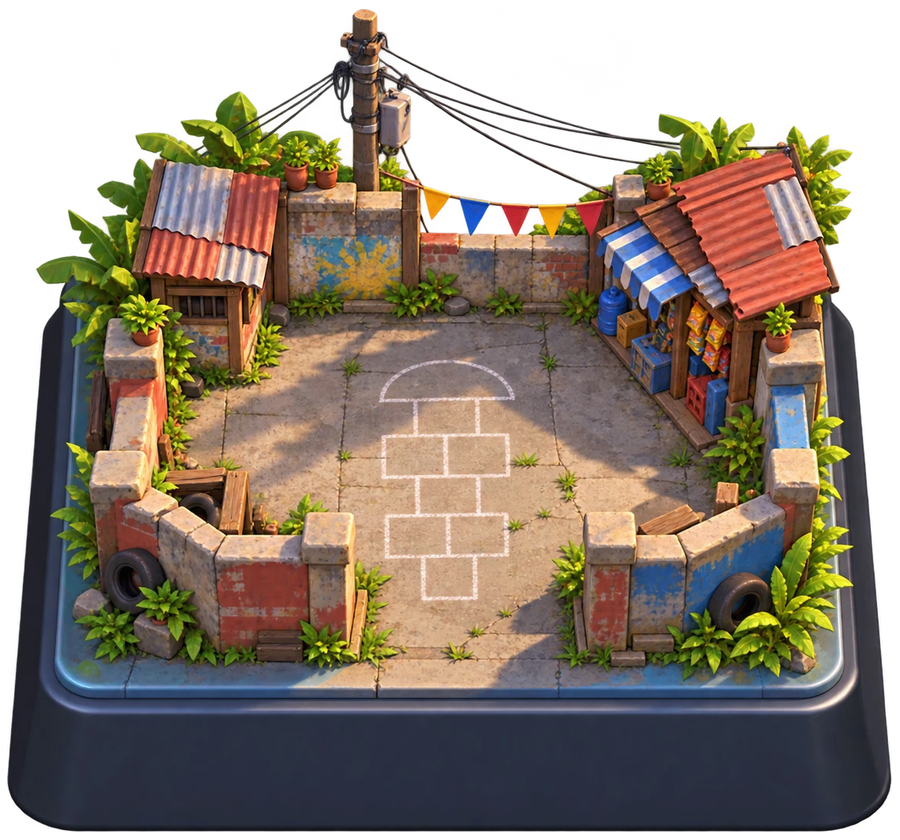
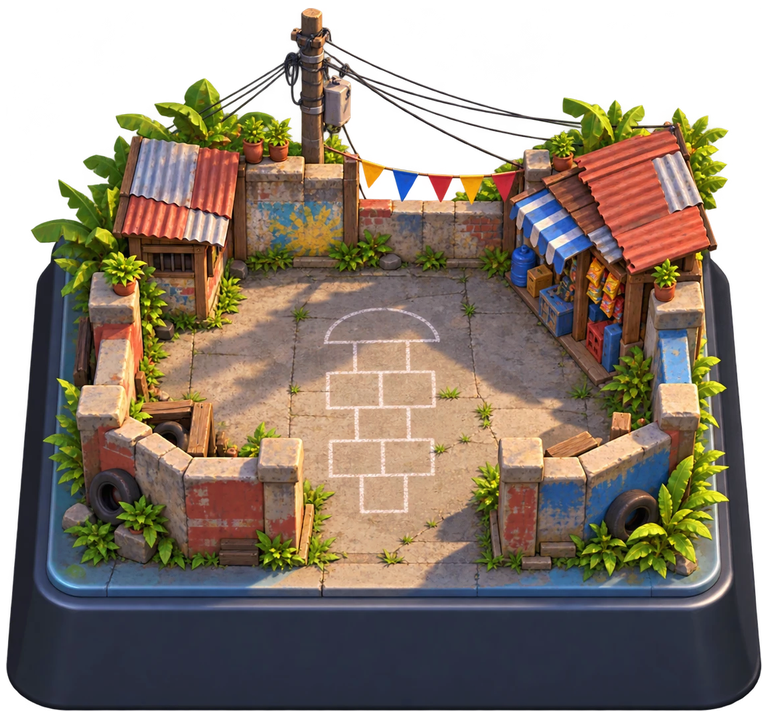
fix(menu): dioramas at 0.64 scale (768 x 717 PNGs); the ones behind the chosen one stand a little higher
Claude-Session: https://claude.ai/code/session_01Vpde5vHZTWw1h4wGUTJzwu

diff --git a/docs/GDD.md b/docs/GDD.md
@@ -199,7 +199,7 @@ Copied! from the reference video (owner): one street. **The playing area is 9:16
 - Ranges and speeds stay as specified; balance is re-checked in M6 with real play on phones.
 
 ## Main screen (owner)
-- **Main screen layout (as built):** the background is **backlit** (owner): a radial gradient of brightness and slight saturation in the chosen mode's colour (a soft, wide light, strength 0.4, reaching 1.5 card heights, like the Clash Royale home screen), brightest right behind the chosen card, under a light night vignette that is the colour's own very dark shade (never a navy mixed into it); the background is the owner's blue, purple or green diamond picture, whichever matches the chosen card (Online green, Local blue, Practice purple; they cross-fade when you swipe), shown as it is, not tinted; **Top row**, a little down from the top: the **KALYEAH! logo** (the owner's cardboard sign, `assets/ui/kalyeah_logo.png`) **centred, 92 px tall and dropped 62 px below the top margin**; there is no profile chip (owner): the name and face are edited in Settings. A **tab bar** along the bottom in the style of a mobile card game's (drawn in code as flat dark slate-blue slots split by thin dark lines under a dark top edge, the open tab's slot lit steel blue and its picture centred on the top edge of the bar, with the owner's pictures from `assets/ui/nav/`; the cardboard plate is gone), **edge to edge and flush with the bottom of the screen** (no margin around it; it reaches under the phone's home bar and the page stops above it): **Street**, **Cards** (the Book: kids and weapons), **Play** (this page, in the middle), **History** and **Settings**. The strip of five tabs is **centred with a 65 px margin on each side** (the margins are coloured like an idle tab; the visible bar is 108 px tall and the idle pictures are small, so there is room each side of every picture, and the lit slot's lighter background fills the tab's whole width; the bar has depth (all drawn in code): a soft shadow cast up over the screen, shaded slot edges, bevelled dividers, a dark rim with a light line and a soft shade under it, a darker bottom, a glossy outlined lit slot and a soft shadow under every picture) and the **open tab is the wide one** (about 203 px, room for its two arrows) while the other four share the rest equally (the strip always fills the same width); the pictures, arrows and the open tab's width scale with the room the margins leave (92 % of the 640 px strip they were drawn for: the midpoint between the first 40 px margin and a 90 px one), and the open tab's picture grows and sits centred on the top edge of the bar and its name fades in under it, so nothing else moves or restructures; two small arrows float a little out from the picture to step to the neighbouring tab (Street has only a right arrow, Settings only a left one); changing tab is one smooth animation (instant with Reduce motion). **Street** lists every game as a street (A. Base Street = Agawan Base, T. Preso Street = Tumbang Preso, Patintero Street) with how it plays, numbers read from the rules; only Agawan Base is playable, the others say Coming soon. **Cards** opens the Book and **History** the last battles (they are no longer buttons in Settings; How to play still is). The chosen card stays **centred on the screen**. **Cards (owner: bare dioramas):** the mode cards show the owner's three diorama pictures (`assets/ui/dioramas/<mode id>.png`, transparent, lossless, 900 x 840) **directly, with no card paper**: the card is only a shell that sizes, places and dims the picture (0.75 of the width the stage allows, the shape of the picture, `TitleScreen.DIORAMA_RATIO`), with a soft ground shadow under the chosen one and no power line; Online is the blue hologram, Local the hopscotch street, Practice the street with the cardboard dummy. The description that follows (the worn old teks card with its corners, tint and power line, `CardFace` without `bare`) is kept for another part of the game. A carousel of large **1.75:2.5 mode cards** (owner) (Online, Local in the middle and the default, Practice; each card is the owner's picture with no text on it): the chosen card is in the middle at full size and **two layers only**: the other card or cards in one back layer, pushed a little to the left or right (earlier left, later right), smaller, dimmed nearly black, slightly see-through, all on the middle card's vertical centre; when the chosen card is Online or Practice, **the third card sits horizontally centred at the back, behind the chosen card, not seen** (`scripts/ui/menu_carousel.gd`); **each card is a thin, straight card with square corners (owner: no border radius, like a Filipino teks card) and its own power line ("POWER 9999" on Local, 7450 on Online, 1200 on Practice; flavour numbers) in white letters with a black outline turned -90 degrees at the bottom of its right edge, and a shade in the mode's colour at the bottom of the picture behind the mode's name, floating over the table (owner: no tilt): flat (no thickness and no coloured outline: owner) and **textured like an old pinoy teks card (owner): the print is worn away to light brown paper at the corners only (two layers of wear, like real cardstock: a thin light tan paper under the ink (lightness grade 64 of 100) and, nearest the edge, the darker brown paperboard core beneath it (grade 48) with a pale fringe of loose fibres on the very edge; a little, different on each card), the print is grainy, every corner has its own slight radius (12 to 16 px: different on each corner and each card, never sharp, never very round), the left and right sides are very slightly worn (different on every card), and a brown-yellow old tint (17 %) lies over the whole card to make it look old, all drawn by a shader (`card_picture`) with each card wearing differently**, with a compact soft shadow close under it, and **every card that is not chosen is dimmed with a darker, nearly black tint** (still in colour; no black and white); the **chosen card only** has a compact soft shadow (**no glow** behind or over the card);  every card that is not chosen has no glow and no shadow; no coloured shade over the picture: owner), and the middle card drifts slowly up and down while the screen idles (a six-second breath of 12 px, still with Reduce motion) with its shadow following** (`CardShape`, `CardFace`, `CardRim`); swipe/drag to scroll, tap a card to bring it forward; card pictures: `assets/ui/cards/<mode id>.webp` (1.75:2.5, the owner's three dioramas set on cream card stock: Online the blue hologram, Local the hopscotch street, Practice the street with the cardboard dummy; the card's shape, worn corners, old tint and power line are drawn over them as before); the earlier mode pictures are kept in `assets/ui/mode_pictures/` for another part of the game. **Round 9 (owner-approved UI plan):** the hero cards **grow with the screen** (1.75:2.5, 86 % of a size between 440 and 780 px tall, so the tipped card floats with space round it; owner) so a tall phone has no empty band; under the phrase two small **fact chips** from the rules data ("2 to 6 players", "Best of 3, 5 or 7"; Online "Join with a code"; Practice "Solo", "A sparring partner" (from `practice_fighters`)) which step aside when the stage is short; no last-match strip on Play (owner: removed; History is a button in Settings); pages **slide in from the side their tab is on** and the tab plate **glides**; the card's bob and the drifting lights **rest** while a page or a sheet covers Home. **Under the cards**, the chosen mode's name **hangs on the bottom edge of the chosen card (its centre on the edge)** and **one short action phrase** ("Play with your friends offline.") are grouped directly below the cards (the cards sit low in their stage so the name, its phrase and the buttons stay together (no page dots: owner), and the whole group is centred between the logo and the bottom bar: the spare room is split above the card and under the buttons), with negative space before the action buttons, which are **low on the screen** (in the bottom part, with some room under them) in one row: **Create** (gold) and **Join** (sky blue) for Local and Online, a **centred pair of equal buttons 117 px tall** (0.75 x 156, which was 1.5 x the old 104; lettering 35 px, 1.25 x the body size), the row **centred vertically between the phrase and the bottom bar**, **as wide as their words need** (at least 240 px) with a 12 px gap, from the owner's Clash Royale reference (colour, position), and the one **Play** button for Practice. The Street and Settings tabs (and the Book and History from Settings) open their page over the home page (Android Back closes the page first, and asks to quit on the home page). **Book:** two tabs, **Characters** (the six kids as large cards to look at; tap one for a sheet with its picture, a description of what the kid wears and a **palette** of swatches (hair, top, accent, bottom, footwear, extra; never skin tone); display only, it never changes who you are: the kid you play is picked in the room and again before every match) and **Weapons** (display only too: grouped By game or By type, a tap opens a sheet with the picture, text, **bars** for damage or healing, cooldown and range each as full as the number is next to every other weapon's, and *The game*: one plain sentence about the real street game behind it, kept as data in `data/rules/street_games.tres`; the same sentence sits under each section header in By game). **History:** the last 30 battles this phone played (result, score, mode, how long ago), with **Played, Won (a whole percent) and Streak** above the list and an All / Practice / Hotspot / Online filter, saved locally (`MatchHistory`, `user://history.cfg`), newest first. **Settings:** your profile (name and face: a sheet with the six kids and a name field, Save or Cancel; Edit profile in Settings opens it), Sound, Vibration (phones), Reduce motion, Left-handed and Control size, a **UI gallery** (every control in every state, for reviewing the look) and Quit. There is no map button: Agawan Base is the only map for now.
+- **Main screen layout (as built):** the background is **backlit** (owner): a radial gradient of brightness and slight saturation in the chosen mode's colour (a soft, wide light, strength 0.4, reaching 1.5 card heights, like the Clash Royale home screen), brightest right behind the chosen card, under a light night vignette that is the colour's own very dark shade (never a navy mixed into it); the background is the owner's blue, purple or green diamond picture, whichever matches the chosen card (Online green, Local blue, Practice purple; they cross-fade when you swipe), shown as it is, not tinted; **Top row**, a little down from the top: the **KALYEAH! logo** (the owner's cardboard sign, `assets/ui/kalyeah_logo.png`) **centred, 92 px tall and dropped 62 px below the top margin**; there is no profile chip (owner): the name and face are edited in Settings. A **tab bar** along the bottom in the style of a mobile card game's (drawn in code as flat dark slate-blue slots split by thin dark lines under a dark top edge, the open tab's slot lit steel blue and its picture centred on the top edge of the bar, with the owner's pictures from `assets/ui/nav/`; the cardboard plate is gone), **edge to edge and flush with the bottom of the screen** (no margin around it; it reaches under the phone's home bar and the page stops above it): **Street**, **Cards** (the Book: kids and weapons), **Play** (this page, in the middle), **History** and **Settings**. The strip of five tabs is **centred with a 65 px margin on each side** (the margins are coloured like an idle tab; the visible bar is 108 px tall and the idle pictures are small, so there is room each side of every picture, and the lit slot's lighter background fills the tab's whole width; the bar has depth (all drawn in code): a soft shadow cast up over the screen, shaded slot edges, bevelled dividers, a dark rim with a light line and a soft shade under it, a darker bottom, a glossy outlined lit slot and a soft shadow under every picture) and the **open tab is the wide one** (about 203 px, room for its two arrows) while the other four share the rest equally (the strip always fills the same width); the pictures, arrows and the open tab's width scale with the room the margins leave (92 % of the 640 px strip they were drawn for: the midpoint between the first 40 px margin and a 90 px one), and the open tab's picture grows and sits centred on the top edge of the bar and its name fades in under it, so nothing else moves or restructures; two small arrows float a little out from the picture to step to the neighbouring tab (Street has only a right arrow, Settings only a left one); changing tab is one smooth animation (instant with Reduce motion). **Street** lists every game as a street (A. Base Street = Agawan Base, T. Preso Street = Tumbang Preso, Patintero Street) with how it plays, numbers read from the rules; only Agawan Base is playable, the others say Coming soon. **Cards** opens the Book and **History** the last battles (they are no longer buttons in Settings; How to play still is). The chosen card stays **centred on the screen**. **Cards (owner: bare dioramas):** the mode cards show the owner's three diorama pictures (`assets/ui/dioramas/<mode id>.png`, transparent, lossless, 768 x 717) **directly, with no card paper**: the card is only a shell that sizes, places and dims the picture (0.64 of the width the stage allows, the shape of the picture, `TitleScreen.DIORAMA_RATIO`), with a soft ground shadow under the chosen one and no power line, and the dioramas behind the chosen one stand a little higher than it; Online is the blue hologram, Local the hopscotch street, Practice the street with the cardboard dummy. The description that follows (the worn old teks card with its corners, tint and power line, `CardFace` without `bare`) is kept for another part of the game. A carousel of large **1.75:2.5 mode cards** (owner) (Online, Local in the middle and the default, Practice; each card is the owner's picture with no text on it): the chosen card is in the middle at full size and **two layers only**: the other card or cards in one back layer, pushed a little to the left or right (earlier left, later right), smaller, dimmed nearly black, slightly see-through, all on the middle card's vertical centre; when the chosen card is Online or Practice, **the third card sits horizontally centred at the back, behind the chosen card, not seen** (`scripts/ui/menu_carousel.gd`); **each card is a thin, straight card with square corners (owner: no border radius, like a Filipino teks card) and its own power line ("POWER 9999" on Local, 7450 on Online, 1200 on Practice; flavour numbers) in white letters with a black outline turned -90 degrees at the bottom of its right edge, and a shade in the mode's colour at the bottom of the picture behind the mode's name, floating over the table (owner: no tilt): flat (no thickness and no coloured outline: owner) and **textured like an old pinoy teks card (owner): the print is worn away to light brown paper at the corners only (two layers of wear, like real cardstock: a thin light tan paper under the ink (lightness grade 64 of 100) and, nearest the edge, the darker brown paperboard core beneath it (grade 48) with a pale fringe of loose fibres on the very edge; a little, different on each card), the print is grainy, every corner has its own slight radius (12 to 16 px: different on each corner and each card, never sharp, never very round), the left and right sides are very slightly worn (different on every card), and a brown-yellow old tint (17 %) lies over the whole card to make it look old, all drawn by a shader (`card_picture`) with each card wearing differently**, with a compact soft shadow close under it, and **every card that is not chosen is dimmed with a darker, nearly black tint** (still in colour; no black and white); the **chosen card only** has a compact soft shadow (**no glow** behind or over the card);  every card that is not chosen has no glow and no shadow; no coloured shade over the picture: owner), and the middle card drifts slowly up and down while the screen idles (a six-second breath of 12 px, still with Reduce motion) with its shadow following** (`CardShape`, `CardFace`, `CardRim`); swipe/drag to scroll, tap a card to bring it forward; card pictures: `assets/ui/cards/<mode id>.webp` (1.75:2.5, the owner's three dioramas set on cream card stock: Online the blue hologram, Local the hopscotch street, Practice the street with the cardboard dummy; the card's shape, worn corners, old tint and power line are drawn over them as before); the earlier mode pictures are kept in `assets/ui/mode_pictures/` for another part of the game. **Round 9 (owner-approved UI plan):** the hero cards **grow with the screen** (1.75:2.5, 86 % of a size between 440 and 780 px tall, so the tipped card floats with space round it; owner) so a tall phone has no empty band; under the phrase two small **fact chips** from the rules data ("2 to 6 players", "Best of 3, 5 or 7"; Online "Join with a code"; Practice "Solo", "A sparring partner" (from `practice_fighters`)) which step aside when the stage is short; no last-match strip on Play (owner: removed; History is a button in Settings); pages **slide in from the side their tab is on** and the tab plate **glides**; the card's bob and the drifting lights **rest** while a page or a sheet covers Home. **Under the cards**, the chosen mode's name **hangs on the bottom edge of the chosen card (its centre on the edge)** and **one short action phrase** ("Play with your friends offline.") are grouped directly below the cards (the cards sit low in their stage so the name, its phrase and the buttons stay together (no page dots: owner), and the whole group is centred between the logo and the bottom bar: the spare room is split above the card and under the buttons), with negative space before the action buttons, which are **low on the screen** (in the bottom part, with some room under them) in one row: **Create** (gold) and **Join** (sky blue) for Local and Online, a **centred pair of equal buttons 117 px tall** (0.75 x 156, which was 1.5 x the old 104; lettering 35 px, 1.25 x the body size), the row **centred vertically between the phrase and the bottom bar**, **as wide as their words need** (at least 240 px) with a 12 px gap, from the owner's Clash Royale reference (colour, position), and the one **Play** button for Practice. The Street and Settings tabs (and the Book and History from Settings) open their page over the home page (Android Back closes the page first, and asks to quit on the home page). **Book:** two tabs, **Characters** (the six kids as large cards to look at; tap one for a sheet with its picture, a description of what the kid wears and a **palette** of swatches (hair, top, accent, bottom, footwear, extra; never skin tone); display only, it never changes who you are: the kid you play is picked in the room and again before every match) and **Weapons** (display only too: grouped By game or By type, a tap opens a sheet with the picture, text, **bars** for damage or healing, cooldown and range each as full as the number is next to every other weapon's, and *The game*: one plain sentence about the real street game behind it, kept as data in `data/rules/street_games.tres`; the same sentence sits under each section header in By game). **History:** the last 30 battles this phone played (result, score, mode, how long ago), with **Played, Won (a whole percent) and Streak** above the list and an All / Practice / Hotspot / Online filter, saved locally (`MatchHistory`, `user://history.cfg`), newest first. **Settings:** your profile (name and face: a sheet with the six kids and a name field, Save or Cancel; Edit profile in Settings opens it), Sound, Vibration (phones), Reduce motion, Left-handed and Control size, a **UI gallery** (every control in every state, for reviewing the look) and Quit. There is no map button: Agawan Base is the only map for now.
 - **Background:** the owner's blue diamond picture (see the layout above).
 - **Local rooms (owner; the mode was called Hotspot, and is named *Local* on screen, in History and in the results):** Android Create hosts the room on the phone; Join finds it by itself. **No room code, no address, no keyboard.** *Create room* opens a modal that checks this phone's network: **the host has two ways to make a room, its own hotspot or the Wi-Fi it is connected to**, and either one is enough; with neither it says *Turn on your hotspot or connect to Wi-Fi, then tap Try again.* (buttons Network settings where Android can open them, Try again, Cancel) and never creates a room; with one it goes on by itself and starts the room server. *Join room* opens a modal that checks the phone is on a Wi-Fi (*Connect to the same Wi-Fi or hotspot as your friend, then tap Try again.*), then *Looking for a room…*: a verified room is joined; none is *No room found. Ask your friend to tap Create room, then tap Try again.*; a full room, a match that has started and another game version have their own sentence. Every state has Cancel (and the phone's Back), ends by itself and calls nothing after it is closed; coming back from the phone's settings checks again. **No hardware or network details are ever shown to the player (owner):** no interface names, no IP addresses, no counts; the modals say only what to do. **The rule (`HotspotNet`, names in `data/rules/net_rules.tres`):** an interface is a client (`wlan0`, `eth0`), ignored (loopback, mobile data, VPN, Wi-Fi Direct) or a tether (any other name); hotspot on = a tether has a private IPv4 address, on a Wi-Fi = a client has one. Create goes on with either one; Join needs a Wi-Fi (a client). Mobile data, a VPN and Wi-Fi Direct count as neither. **Discovery does not depend on the host's address** (Android gives a hotspot a random `192.168.x.y`, never reliably `.1`): the host answers a UDP probe on port 8081 (`HotspotBeacon`), the guest sends it to the broadcast addresses of its Wi-Fi (`HotspotFinder`) and asks each answering phone for its room over the WebSocket handshake; the old guesses (the ".1" of the network, 192.168.43.1, 172.20.10.1) run beside it as a fallback. The host must stay in the app (the game pauses with it). Needs the `CHANGE_WIFI_MULTICAST_STATE` permission. Audit, assumptions and the phone test script: [Hotspot audit](audits/2026-10-26-hotspot.md).
 - **Room UI (round 15: the page is called *Room*, not *Lobby*, like the buttons that open it; the status line says *Ready to play*, and the first-to is said once, as "First to 3"):** compact Agawan Base header; host-only team size and BO3/BO5/BO7; numbered team rows with a You marker and larger Host/Ready tags; a horizontally scrollable character strip; persistent readiness explanation above Start/Ready. Room content scrolls on short screens while the primary action stays outside the scroll. The web preview is explicitly marked and cannot start a real match. All essential room buttons are at least 88 design pixels high.
